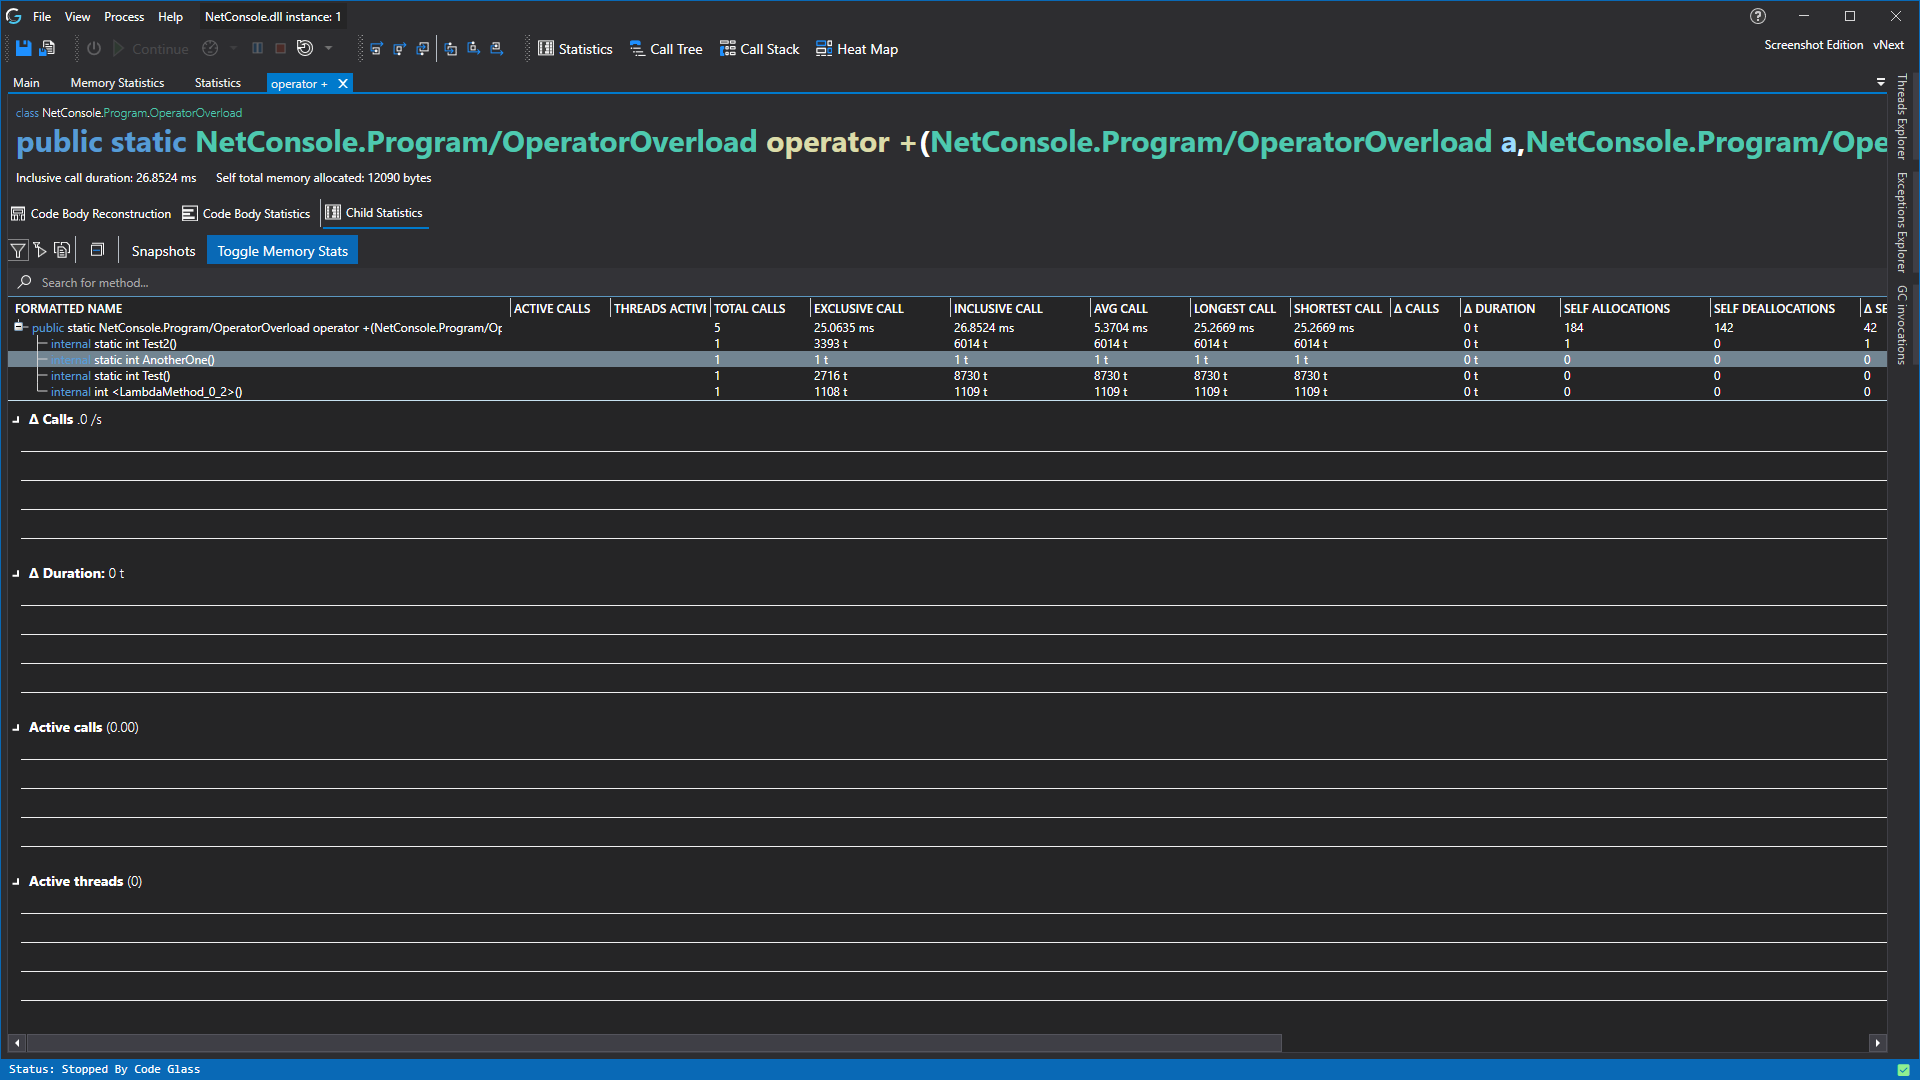
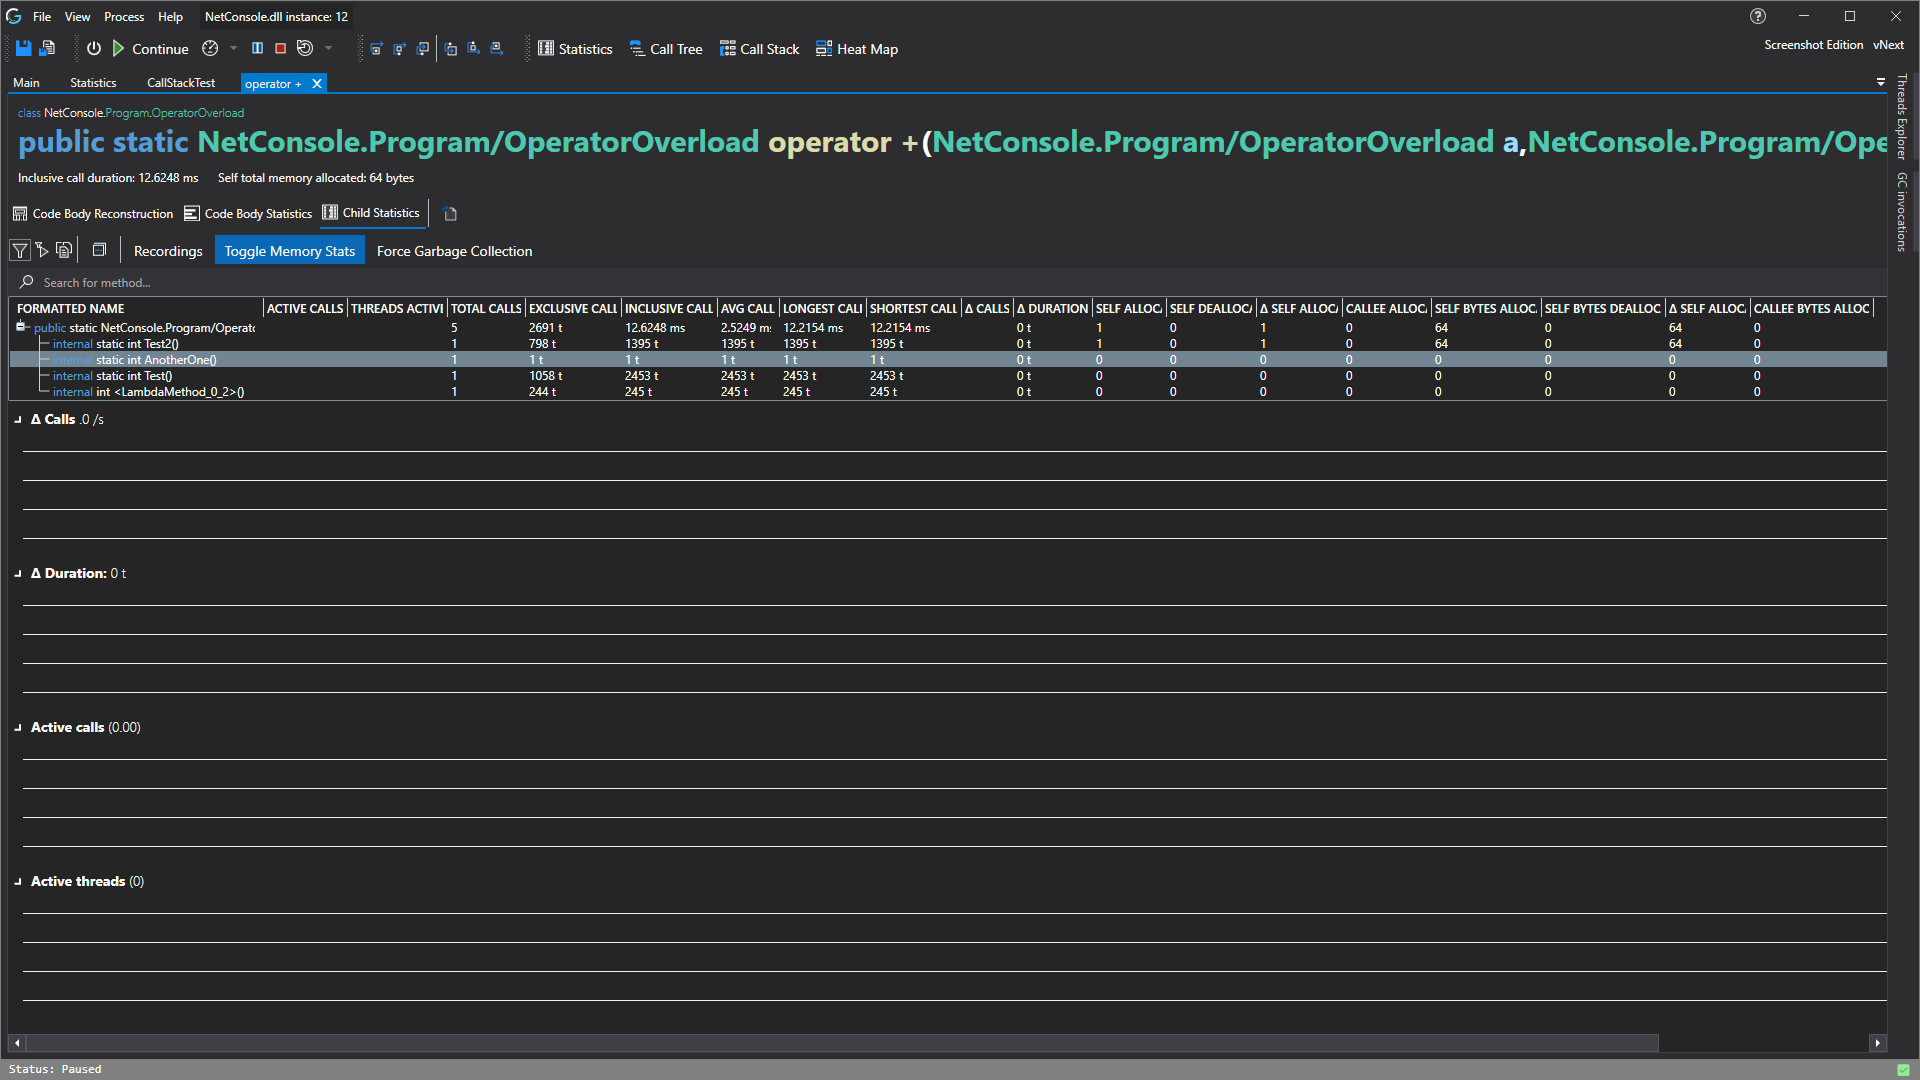
Update for forcing of garbage collection

diff --git a/_docs/views/Dialogs.md b/_docs/views/Dialogs.md
@@ -96,3 +96,12 @@ You can get this screen when you are trying to start an application that was reg
 Every if should have an else, even if we think that the else might never occur; in those cases, we show this dialogue.
 
 If you ever get this dialog, please report it with a screenshot and how you triggered it.
+
+## Warning Dialogs
+
+#### Force Garbage Collection Warning
+![assets/img/Dialogs/Dialogs_ForceGCWarning.png](../../assets/img/Dialogs/Dialogs_ForceGCWarning.png)
+
+You can get this dialog when you try to force the garbage collection to run while your application is in a paused state. Here you can choose to either cancel or force the garbage collection anyways. When you cancel nothing happens. When you force the garbage collection anyways CodeGlass first has to unpause your application to schedule the garbage collection. After that your application will be paused again.
+
+This unpausing is needed due to how garbage collection works. For garbage collection to work, the garbage collector needs to gain a "lock" on every executing thread. Because the application is paused, CodeGlass prevents some functions from continuing which prevents the garbage collector from gaining that lock. To bypass this problem CodeGlass needs to unpause your application and than schedule the garbage collector. This way it can get the locks on the executing threads. After the garbage collection has been scheduled CodeGlass re-pauses the application. This unpausing does have the downside that some new data will be send to CodeGlass during this unpaused moment. So keep in mind that your data might change when you force the garbage collection when in a paused state.

diff --git a/_docs/views/ApplicationInstanceDockWindow/MemoryStatisticsWindow.md b/_docs/views/ApplicationInstanceDockWindow/MemoryStatisticsWindow.md
@@ -8,10 +8,12 @@ description: The profiling memory statistics of a profiled application.
 
 This view contains the general memory statistics of a profiled application. Each piece of memory is grouped by their namespace. Items that are blue are namespaces that contain other namespaces or allocatable objects (yellow).
 
-{% include MemoryStatistics/BasicMemoryStatisticsExplaination.md %}
+Just above the statistics tree view, you find the toolbar. The toolbar contains the following items:
+- Force Garbage Collection allows you to force the garbage collection to run. (This option is grayed out if the integration does not support this feature.)
+- A search bar (Ctrl + F) that allows you to search for object by their name. When you click on one of the search results, the tree view will expand until the selected object is visible.
 
-Just above the statistics tree view, you find a search bar that allows you to search for object by their name. When you click on one of the search results, the tree view will expand until the selected object is visible.
-
-When you double click on one of the namespace tree view items, it opens a new memory window, but it will only show memory statistics for that specific namespace.
-
+When you double click on one of the namespace tree view items, it opens a new memory window, but it will only show memory statistics for that specific namespace.<br>
 When you double click on one of the allocatable object tree view items, it opens the [code paths that allocated this object view](AllocatedByCodePathView).
+
+## Available Data
+{% include MemoryStatistics/BasicMemoryStatisticsExplaination.md %}

diff --git a/_docs/views/ApplicationInstanceDockWindow/AllocatedByCodePathView.md b/_docs/views/ApplicationInstanceDockWindow/AllocatedByCodePathView.md
@@ -8,6 +8,10 @@ description: The profiling memory statistics of a profiled application by code p
 
 This view shows all the function that have allocated this specific object. The nested functions shows between which function calls, in the body of the parent function, the object was allocated.
 
-{% include MemoryStatistics/BasicMemoryStatisticsExplaination.md %}
+Just above the statistics tree view, you find the toolbar. The toolbar contains the following items:
+- Force Garbage Collection allows you to force the garbage collection to run. (This option is grayed out if the integration does not support this feature.)
 
 When you double click on one of the tree view items it will open the [code member details view](CodeMemberDetailsView).
+
+## Available Data
+{% include MemoryStatistics/BasicMemoryStatisticsExplaination.md %}

diff --git a/_includes/Statistics/BasicStatisticsExplaination.md b/_includes/Statistics/BasicStatisticsExplaination.md
@@ -8,6 +8,7 @@ In the toolbar, you have multiple buttons. Each of them are described below.
 - Collapse all items in the tree view.
 - Open the [snapshot](../../views/applicationInstanceDockWindow/StatsSnapshotView) menu.
 - Toggle showing memory statistics in the tree view (this options is automatically enabled if you have memory profiling enabled).
+- Force Garbage Collection allows you to force the garbage collection to run. (This option is grayed out if the integration does not support this feature.)
 
 Below all these buttons, there is a search bar (Ctrl + F). Here you search for method using its name. When you select one of the suggestions, it will automatically expand the tree view until the searched method.
 
